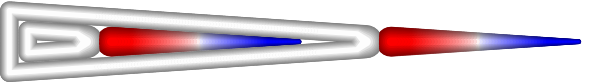
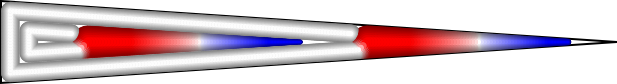
clarify intro figure shape and use same min feature size

diff --git a/1_intro.tex b/1_intro.tex
@@ -54,10 +54,10 @@ See \cref{intro_wedge_distributed}.
 \parbox[b]{\figwidthTwo}{\subcaption{}\label{intro_wedge_centered}}\includegraphics[width=\figwidth]{sources-intro-TEST-Center-widths.png}
 \end{subfigure}
 \begin{subfigure}{\figwidth}\centering
-\parbox[b]{\figwidthTwo}{\subcaption{}\label{intro_wedge_distributed}}\includegraphics[width=\figwidth]{sources-intro-TEST-InwardDistributed-widths.png}
+\parbox[b]{\figwidthTwo}{\subcaption{}\label{intro_wedge_distributed}}\includegraphics[width=\figwidth]{sources-intro-TEST-Distributed-widths.png}
 \end{subfigure}
 \caption{
-Illustration of different toolpath for a wedge shape.
+Illustration of different toolpath for a wedge shape \revise{}{(black)}.
 \subref{intro_wedge_uniform} Toolpath using uniform offsetting results in large overfill (orange) and underfill (azure).
 \subref{intro_wedge_centered} Toolpath with adaptive width~\cite{Jin2017JMS} where beads that are wider or narrower than the nozzle size are indicatd in red and blue, respectively.
 \subref{intro_wedge_distributed} Our approach minimizes over- and underfill with beads close to the nozzle size.
